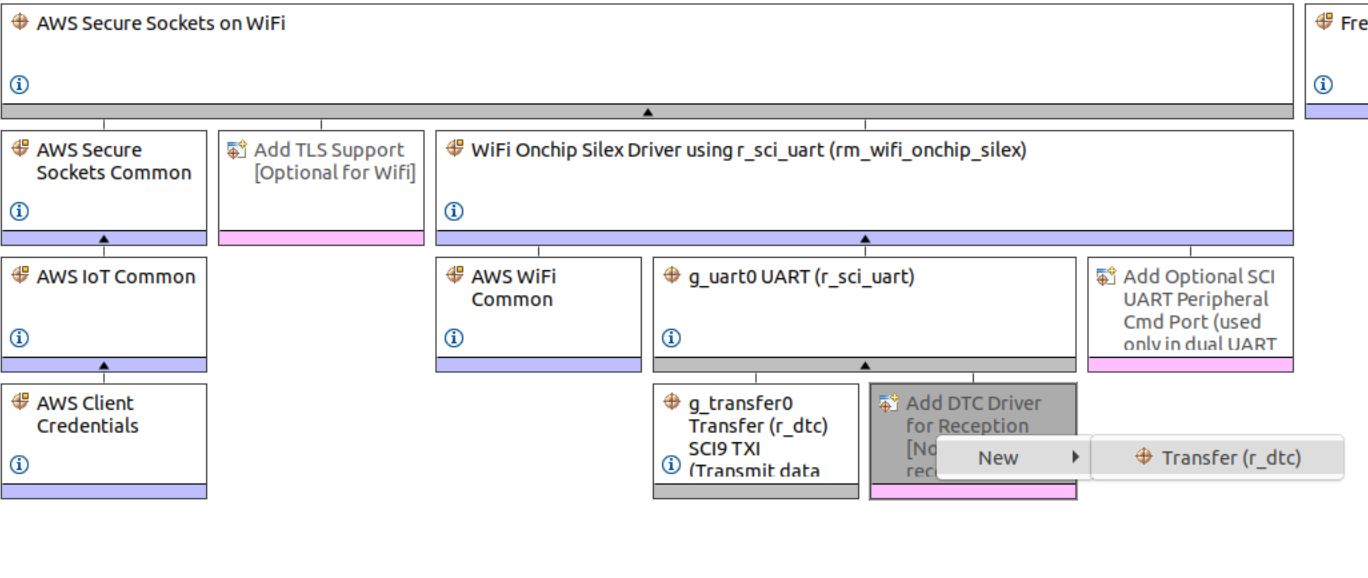
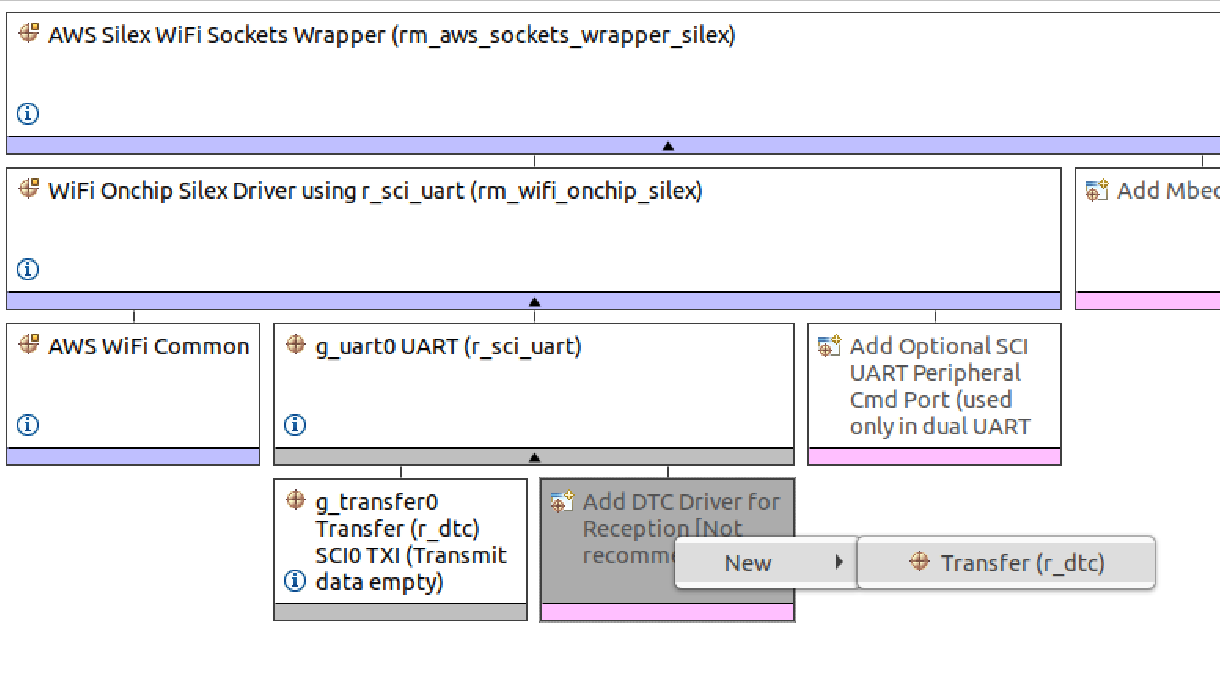
Update FSP tot v4.0.0 (#81) (#82)
* Fix IP default configuration

* Update README

* Update WiFi transport

* Reduce read timeout on Wifi transport

* Update WiFi transport README

* Fix typo

---------

(cherry picked from commit 741a783bf4973c3451fba0554625ba1f8a204dd7)

diff --git a/extra_sources/microros_transports/wifi_transport_freeRTOS.c b/extra_sources/microros_transports/wifi_transport_freeRTOS.c
@@ -13,9 +13,7 @@
 #include <stdbool.h>
 #include <string.h>
 
-#include "aws_secure_sockets_config.h"
-#include "iot_secure_sockets.h"
-
+#include "sockets_wrapper.h"
 
 typedef enum {
   STATE_WAIT_FOR_SIZE = 0,
@@ -44,7 +42,6 @@ Socket_t xSocket;
 bool renesas_e2_transport_open(struct uxrCustomTransport * transport) {
     custom_transport_args * args = (custom_transport_args*) transport->args;
     WIFINetworkParams_t * network_conf = (WIFINetworkParams_t *) args->network_conf;
-    SocketsSockaddr_t * socket_addr = (SocketsSockaddr_t *) args->socket_addr;
 
     // Set network struct length values. TODO: could strlen be problematic?
     network_conf->xPassword.xWPA.ucLength = (uint8_t) strlen((char *) network_conf->xPassword.xWPA.cPassphrase);
@@ -67,47 +64,26 @@ bool renesas_e2_transport_open(struct uxrCustomTransport * transport) {
         return false;
     }
 
-    // Initialize the Socket Interface
-    BaseType_t sock_err;
-    if(!net_init)
-    {
-        sock_err = SOCKETS_Init();
-
-        if (pdPASS != sock_err)
-        {
-            // TODO: use assert(pdPASS == sock_err); ?
-            return false;
-        }
-
-        net_init = true;
-    }
-
-    // Create socket
-    xSocket = SOCKETS_Socket(SOCKETS_AF_INET, SOCKETS_SOCK_STREAM, SOCKETS_IPPROTO_TCP);
-
-    if(SOCKETS_INVALID_SOCKET == xSocket)
-    {
-        return false;
-    }
+    net_init = true;
 
     // Connect to agent TCP server
-    sock_err = SOCKETS_Connect(xSocket, socket_addr, sizeof(SocketsSockaddr_t));
+    BaseType_t sock_err = Sockets_Connect(&xSocket,
+                           args->agent_ip,
+                           args->agent_port,
+                           10,
+                           WRITE_TIMEOUT);
 
     if (SOCKETS_ERROR_NONE != sock_err)
     {
         return false;
     }
 
-    // Set write timeout
-    TickType_t timeout_ticks = pdMS_TO_TICKS(WRITE_TIMEOUT);
-    SOCKETS_SetSockOpt(xSocket, 0, SOCKETS_SO_SNDTIMEO, &timeout_ticks, 0);
-
     return true;
 }
 
 bool renesas_e2_transport_close(struct uxrCustomTransport * transport) {
     (void) transport;
-    (void) SOCKETS_Close(xSocket);
+    Sockets_Disconnect(xSocket);
 
     if (wifi_init && eWiFiSuccess == WIFI_Off())
     {
@@ -127,12 +103,12 @@ size_t renesas_e2_transport_write(struct uxrCustomTransport* transport, const ui
     static uint8_t buffer_size[2];
     buffer_size[0] = (uint8_t)(0x00FF & len);
     buffer_size[1] = (uint8_t)((0xFF00 & len) >> 8);
-    bytes_sent = SOCKETS_Send(xSocket, (const void *) &buffer_size[0], 2, 0);
+    bytes_sent = Sockets_Send(xSocket, (const void *) &buffer_size[0], 2);
 
     // Then we send the payload
     if (bytes_sent == 2)
     {
-        bytes_sent = SOCKETS_Send(xSocket, (const void *) &buf[0], len, 0);
+        bytes_sent = Sockets_Send(xSocket, (const void *) &buf[0], len);
 
         if (0 <= bytes_sent)
         {
@@ -154,22 +130,14 @@ size_t renesas_e2_transport_write(struct uxrCustomTransport* transport, const ui
 
 size_t renesas_e2_transport_read(struct uxrCustomTransport* transport, uint8_t* buf, size_t len, int timeout, uint8_t* err) {
     (void) transport;
+    (void) timeout;
     (void) len;
 
     static tcp_receiver_t receiver = {};
     size_t rv = 0;
 
-    if (timeout == 0)
-    {
-    	  timeout = 1;
-    }
-
     do
     {
-        // Set read timeout
-        TickType_t timeout_ticks = pdMS_TO_TICKS(timeout);
-        SOCKETS_SetSockOpt(xSocket, 0, SOCKETS_SO_RCVTIMEO, &timeout_ticks, 0);
-
         int64_t time_init = uxr_millis();
         read_tcp_data(&receiver);
         timeout -= (int)(uxr_millis() - time_init);
@@ -200,7 +168,7 @@ void read_tcp_data(tcp_receiver_t * receiver) {
   switch(receiver->state)
   {
     case STATE_WAIT_FOR_SIZE:
-      bytes_received = SOCKETS_Recv(xSocket, (void*) &receiver->length_buffer[0], 2, 0);
+      bytes_received = Sockets_Recv(xSocket, (void*) &receiver->length_buffer[0], 2);
       if (bytes_received >= 2)
       {
         receiver->message_size = (uint16_t)(receiver->length_buffer[0] | (receiver->length_buffer[1] << 8));
@@ -211,7 +179,7 @@ void read_tcp_data(tcp_receiver_t * receiver) {
 
     case STATE_WAIT_FOR_DATA:
       to_read = receiver->message_size - receiver->message_size_received;
-      bytes_received = SOCKETS_Recv(xSocket, (void*) &receiver->buffer[receiver->message_size_received], to_read, 0);
+      bytes_received = Sockets_Recv(xSocket, (void*) &receiver->buffer[receiver->message_size_received], to_read);
       receiver->message_size_received += (uint16_t) bytes_received;
 
       if(receiver->message_size_received == receiver->message_size){

diff --git a/extra_sources/microros_transports/udp_transport_freeRTOS.c b/extra_sources/microros_transports/udp_transport_freeRTOS.c
@@ -13,21 +13,15 @@
 #include <stdbool.h>
 
 // FreeRTOS MAC will be copied from g_ether0 configured value.
-static  uint8_t ucMACAddress[ 6 ]       = {0x00};
+static uint8_t ucMACAddress[ 6 ]       = {0x00};
 
-#if( ipconfigUSE_DHCP != 0 )
-    // DHCP enabled, this values will be automatically populated with the received IP address.
-    static  uint8_t ucIPAddress[ 4 ]        = {0x00};
-    static  uint8_t ucNetMask[ 4 ]          = {0x00};
-    static  uint8_t ucGatewayAddress[ 4 ]   = {0x00};
-    static  uint8_t ucDNSServerAddress[ 4 ] = {0x00};
-#else
-    // DHCP disabled, configure the board static IP address.
-    static  uint8_t ucIPAddress[ 4 ]        = {192, 168, 1, 180};
-    static  uint8_t ucNetMask[ 4 ]          = {255, 255, 255, 0};
-    static  uint8_t ucGatewayAddress[ 4 ]   = {0, 0, 0, 0};
-    static  uint8_t ucDNSServerAddress[ 4 ] = {10, 60, 1, 2};
-#endif
+// Default IP configuration.
+// - This values will be used as the board static IP address if DHCP is disabled.
+// - If DHCP is enabled, they will be override with the received IP address.
+static uint8_t ucIPAddress[ 4 ]        = {192, 168, 1, 180};
+static uint8_t ucNetMask[ 4 ]          = {255, 255, 255, 0};
+static uint8_t ucGatewayAddress[ 4 ]   = {0, 0, 0, 0};
+static uint8_t ucDNSServerAddress[ 4 ] = {10, 60, 1, 2};
 
 struct freertos_sockaddr *remote_addr;
 Socket_t xSocket;

diff --git a/extra_sources/microros_transports.h b/extra_sources/microros_transports.h
@@ -11,12 +11,11 @@ typedef struct custom_transport_args {
     ULONG agent_ip_address;
     UINT agent_port;
 } custom_transport_args;
-#elif defined(_AWS_WIFI_H_)
-#include "iot_secure_sockets.h"
-
+#elif defined(SOCKETS_WRAPPER_H)
 typedef struct custom_transport_args {
     WIFINetworkParams_t * network_conf;
-    SocketsSockaddr_t * socket_addr;
+    const char agent_ip[16];
+    uint16_t agent_port;
 } custom_transport_args;
 #endif
 

diff --git a/micro_ros_transports.md b/micro_ros_transports.md
@@ -1,11 +1,5 @@
-<br/>
-<a>
-   <p align="center">
-      <img width="40%" src=".images/renesas_logo.gif">
-      <img width="40%" src=".images/microros_logo.png">
-   </p>
-</a>
-<br/>
+![banner](.images/banner-dark-theme.png#gh-dark-mode-only)
+![banner](.images/banner-light-theme.png#gh-light-mode-only)
 
 # micro-ROS transports for  Renesas e<sup>2</sup> studio
 
@@ -16,7 +10,7 @@ Depending on which transport is used for micro-ROS specific configurations, the 
   - [Serial UART transport](#serial-uart-transport)
   - [UDP transport (FreeRTOS + TCP)](#udp-transport-freertos--tcp)
   - [UDP transport (ThreadX + NetX)](#udp-transport-threadx--netx)
-  - [TCP WIFI transport (AWS Secure Sockets - FreeRTOS)](#tcp-wifi-transport-aws-secure-sockets---freertos)
+  - [TCP WIFI transport (AWS WiFi Sockets Wrapper - FreeRTOS)](#tcp-wifi-transport-aws-wifi-sockets-wrapper---freertos)
   - [CAN FD transport](#can-fd-transport)
 
 ## USB-CDC transport
@@ -143,7 +137,7 @@ The configuration of this transports is board dependant:
          renesas_e2_transport_read);
       ```
 
-## TCP WIFI transport (AWS Secure Sockets - FreeRTOS)
+## TCP WIFI transport (AWS WiFi Sockets Wrapper - FreeRTOS)
 
 This transport supports Renesas [Wi-Fi-Pmod-Expansion-Board](https://www.renesas.com/eu/en/products/microcontrollers-microprocessors/ra-cortex-m-mcus/wi-fi-pmod-expansion-board-80211bgn-24g-wi-fi-pmod-expansion-board) based on Silex SX-ULPGN module.  
 Support for other wifi modules can be added to the FSP as explained on chapter `4. Adding Support for New Wi-Fi module` of this document: 
@@ -154,9 +148,19 @@ Support for other wifi modules can be added to the FSP as explained on chapter `
 1. Copy the following files to the source directory:
       - `extra_sources/microros_transports/wifi_transport_freeRTOS.c`
 
-2. Double click on the `configuration.xml` file of your project and go to the `Stacks` tab.
-3. Select `New Stack -> Networking -> AWS Secure Sockets on WiFi`.
-4. Remove the `AWS Secure Sockets TLS Support` submodule of the created module: `Right click -> Delete`.
+2. Double click on the `configuration.xml` file of your project and go to the `Components` tab.
+3. Enable the following components:
+   1. `AWS -> c_sdk -> standard -> logging`.
+   2. `Renesas -> Middleware -> all -> WiFi Common`.
+   3. `Renesas -> Middleware -> all -> AWS Silex WiFi Sockets Wrapper`.
+
+      ![image](.images/enable_wifi_module.png)
+
+3. Go to the `Stacks` tab and add a `AWS Silex WiFi Sockets Wrapper` module.
+4. Remove the `AWS Cellular/WiFi MbedTLS Bio` submodule of the created component: `Right click -> Delete`.
+
+      <img src=".images/remove_TLS.png" alt="drawing" width="1000"/>
+
 5. Enable `Common -> General -> Use Mutexes` on the micro-ROS thread properties.
 6. Configure the module reset pinout on the `rm_wifi_onchip_silex` module properties:
    1. Set `Common -> Module Reset Port` to 3.
@@ -165,7 +169,7 @@ Support for other wifi modules can be added to the FSP as explained on chapter `
    1. Enter Enable `FIFO support`, `DTC support` and `Flow control support` on `common` properties
    2. Add `DTC drivers` for Transmission and Reception:
 
-      <img src=".images/Wifi_DTC.png" alt="drawing" width="1000"/>
+      <img src=".images/Wifi_DTC.png" alt="drawing" width="800"/>
 
    3. Select the SCI port 9 on `Module g_uart0 UART (r_sci_uart) -> General -> Channel`.
    4. Go to the Pins tab and configure the SCI port and its pinout:
@@ -174,7 +178,7 @@ Support for other wifi modules can be added to the FSP as explained on chapter `
 
       *Optional: in order to set P203 and P202 as Tx/Rx first disable SPI0*
 
-   5. *Optional: To increase data throughput, increase the baud rate on `Module g_uart0 UART (r_sci_uart) -> Baud -> Baud Rate`.  
+   5. *Optional: To increase data throughput, increase the baud rate on `Module g_uart0 UART (r_sci_uart) -> Baud -> Baud Rate`.
       Values up to `460800 bauds` has been tested*
 
 8.  Save the modifications by clicking on `Generate Project Content`.
@@ -190,26 +194,18 @@ Support for other wifi modules can be added to the FSP as explained on chapter `
          };
          ```
 
-         *Notes:*  
-            - *Currently only the following security protocols are supported: `eWiFiSecurityOpen`, `eWiFiSecurityWPA` and `eWiFiSecurityWPA2`*  
+         *Notes:*
+            - *Currently only the following security protocols are supported: `eWiFiSecurityOpen`, `eWiFiSecurityWPA` and `eWiFiSecurityWPA2`*
             - *The network ssid and password length is limited to 31 characters*
 
-    2. Configure agent IP and port on a `SocketsSockaddr_t` object:
-         ```c
-         // Configure agent address
-         SocketsSockaddr_t socket_addr = {
-               .ulAddress = SOCKETS_inet_addr_quick(192, 168, 1, 93),
-               .usPort    = SOCKETS_htons(8888)
-         };
-         ```
-
-    3. Add the configuration the a `custom_transport_args` struct and pass it down to the `rmw_uros_set_custom_transport` method:
+    2. Configure agent IP and port on a `custom_transport_args` object and pass it down to the `rmw_uros_set_custom_transport` method:
 
          ```c
          // Add configuration to transport args
          custom_transport_args wifi_args = {
             .network_conf = &network_conf,
-            .socket_addr = &socket_addr
+            .agent_ip = "192.168.1.93",
+            .agent_port = 8888
          };
 
          rmw_uros_set_custom_transport(

diff --git a/fps_install_packs.md b/fps_install_packs.md
@@ -1,22 +1,16 @@
-<br/>
-<a>
-   <p align="center">
-      <img width="40%" src=".images/renesas_logo.gif">
-      <img width="40%" src=".images/microros_logo.png">
-   </p>
-</a>
-<br/>
+![banner](.images/banner-dark-theme.png#gh-dark-mode-only)
+![banner](.images/banner-light-theme.png#gh-light-mode-only)
 
 # FSP Board pack installation on Renesas e<sup>2</sup> studio
 
 ## Renesas e2 studio installer
 
-- Download the e2 studio Linux AppImage from the  [Renesas Github repository](https://github.com/renesas/fsp/releases). For example, e2 studio installer for FSP version 3.5.0 can be downloaded here: [setup_fsp_v3_5_0_e2s_v2021-10.AppImage](https://github.com/renesas/fsp/releases/download/v3.5.0/setup_fsp_v3_5_0_e2s_v2021-10.AppImage)
+- Download the e2 studio Linux AppImage from the  [Renesas Github repository](https://github.com/renesas/fsp/releases). For example, e2 studio installer for FSP version 4.4.0 can be downloaded here: [setup_fsp_v4_4_0_e2s_v2023-04.AppImage](https://github.com/renesas/fsp/releases/download/v4.4.0/setup_fsp_v4_4_0_e2s_v2023-04.AppImage)
 - Perform a Quick Install, this will automatically include the latest FSP and GNU Arm Embedded Toolchain versions.
 
 ## Manual FSP Update
 
-- Download the latest FSP packs as zip file from the  [Renesas Github repository](https://github.com/renesas/fsp/releases). For example, version 3.5.0 can be downloaded here: [FSP_Packs_v3.5.0.zip](https://github.com/renesas/fsp/releases/download/v3.5.0/FSP_Packs_v3.5.0.zip)
+- Download the latest FSP packs as zip file from the  [Renesas Github repository](https://github.com/renesas/fsp/releases). For example, version 4.4.0 can be downloaded here: [FSP_Packs_v4.4.0.zip](https://github.com/renesas/fsp/releases/download/v4.4.0/FSP_Packs_v4.4.0.zip)
 
 ### Install Renesas FSP packs
 
@@ -25,7 +19,7 @@
 
 ![image](.images/Packs_path.png)
 
-1. Extract the downloaded packs on the FSP folder path: `unzip FSP_Packs_v2.4.0.zip -d /home/username/.eclipse/com.renesas.platform_1177272026/`.
+1. Extract the downloaded packs on the FSP folder path: `unzip FSP_Packs_v4.4.0.zip -d /home/username/.eclipse/com.renesas.platform_1177272026/`.
 
 2. Now check on e<sup>2</sup> studio that the packs were detected and installed successfully:
 

diff --git a/README.md b/README.md
@@ -30,7 +30,7 @@ This package eases the integration of [micro-ROS](https://micro.ros.org/) in a [
 ## Requirements
 
 - [Renesas e<sup>2</sup> studio](https://www.renesas.com/us/en/software-tool/e-studio) for Linux<sup>1</sup>
-- FSP v3.5.0 board packs for Renesas e<sup>2</sup> studio: [Details](fps_install_packs.md).
+- FSP v4.4.0 board packs for Renesas e<sup>2</sup> studio: [Details](fps_install_packs.md).
 - GNU Arm Embedded Toolchain v10.3.1.20210824 (Other compatible toolchain may work).
 - Install `rsync`: `apt -y install rsync`
 - [Install colcon](https://colcon.readthedocs.io/en/released/user/installation.html) and dependencies, for example with:
